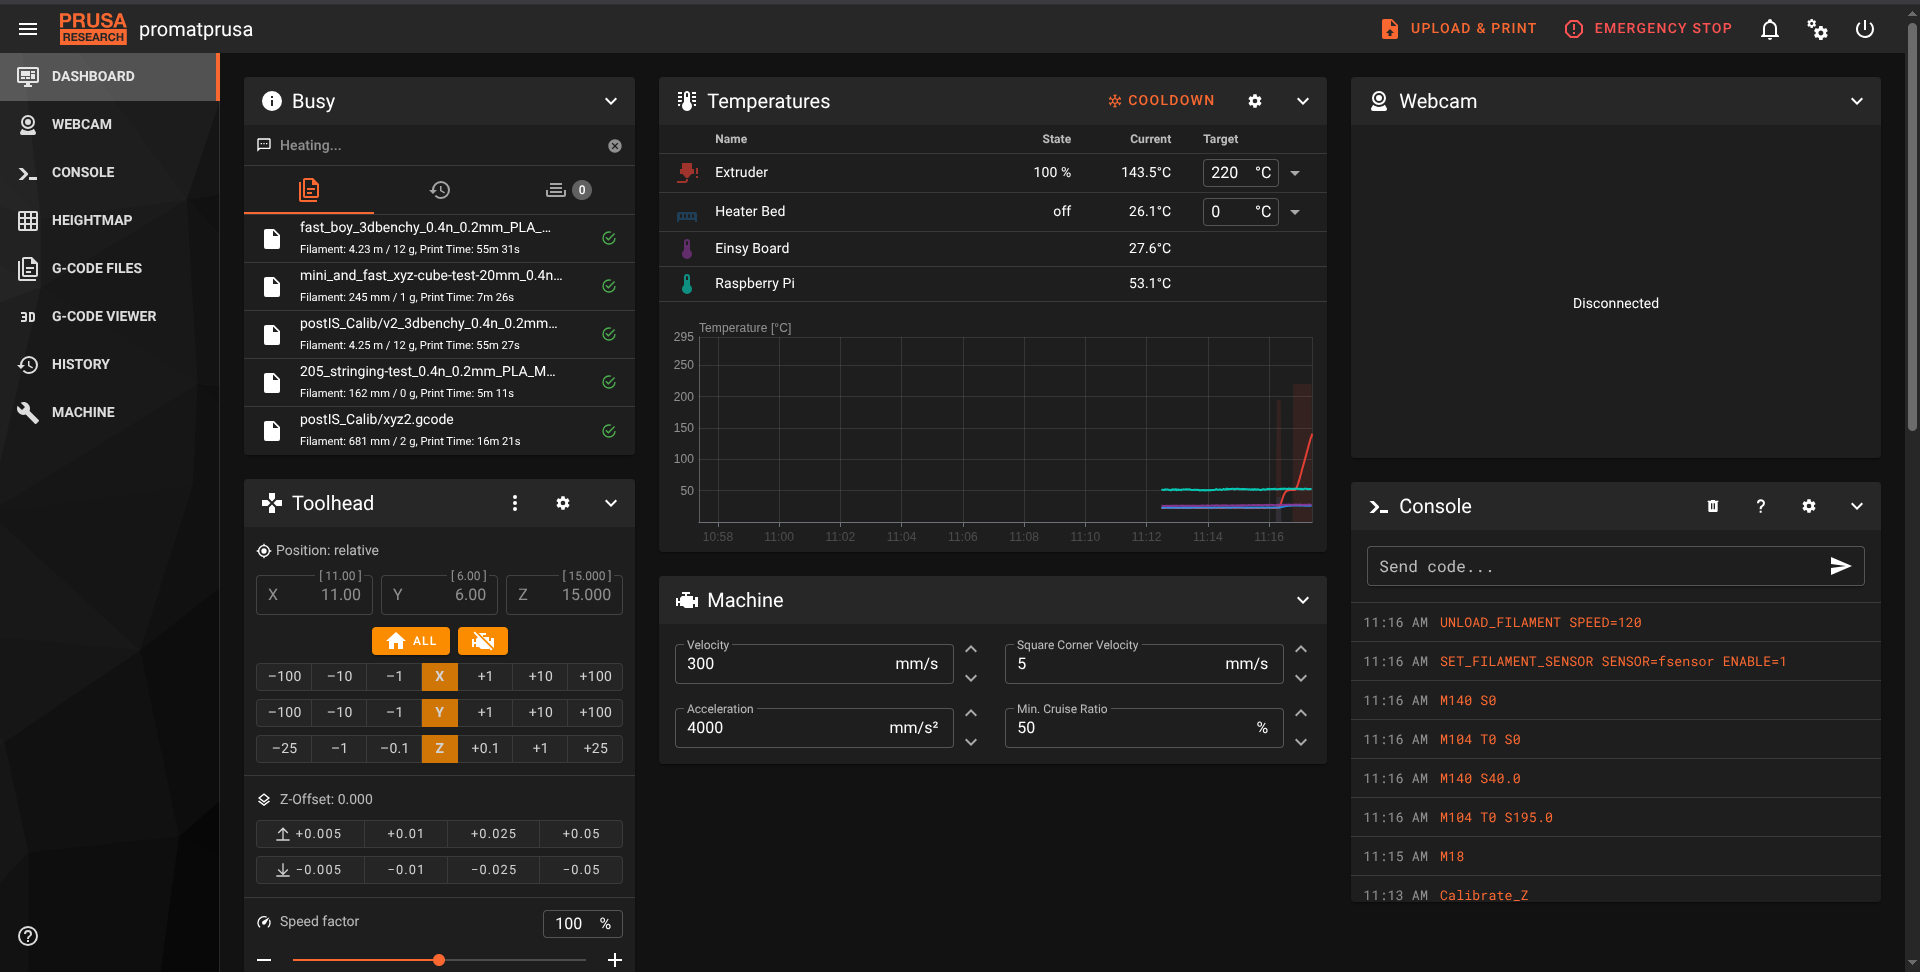
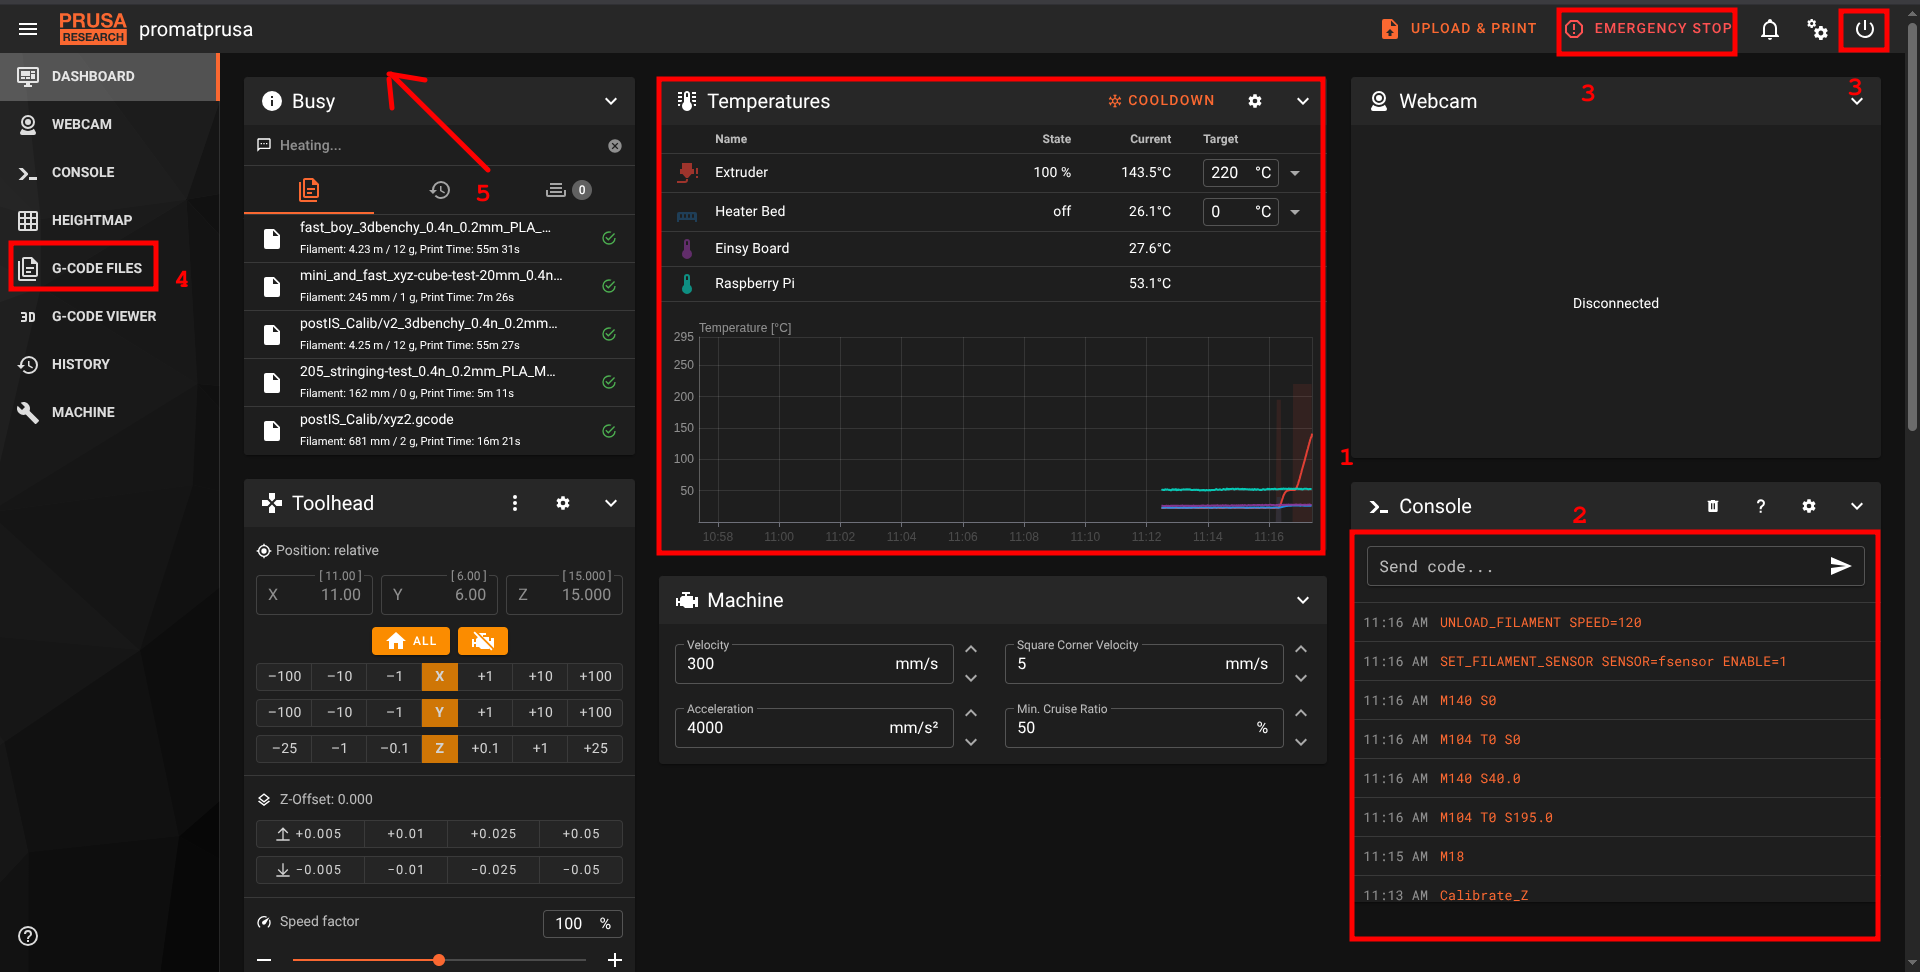
add tutorial content

diff --git a/README.md b/README.md
@@ -9,8 +9,62 @@ Szczeguły procesu modyfikacji można znaleźć [tutaj](./doc/prusa-mod-instruct
 > [!caution]
 > Druk bezpośrednio z karty w drukarce niestety nie jest już możliwy. Należy skorzystać z metody opisanej poniżej!
 
+## Opis ogólny
+
+![Drukarka po modyfikacji](./doc/setup.jpg)
+
+Powyższe zdjęcie przedstawia +/- obecny stan drukarki z oznaczonymi elementami:
+1. Raspberry Pi - odpowiada za sterowanie drukarką
+2. Ekran dotykowy KlipperScreen - wyświetla GUI (coś na kształt starego ekranu i pokrętła). Można z niego odpalać wydruki, ładować/wyładowywać filament e.t.c.
+3. Stare kontrolki drukarki - nadal da się ich do czegoś używać ale np. nie da się już puszczać wydruków itd.
+
+## Metody uploadowania gcode
+
+### Metoda 1 - przez WebGUI (MainSail)
+Ta metoda wymaga połączenia się z Raspberry przez sieć. Można to zrobić na dwa sposoby
+1. Przez hotspot (prusa-promat)*
+2. Po kablu ethernet (trzeba u siebie odpalić serwer DHCP)
+
+Następnie:
+- Wchodzimy na stronę http://promatprusa.local (ewentualnie po IP)
+- Wpisujemy login+hasło do NGNIX
+- Dostajemy dashboard mainsaila:
+
+![Mainsail dashboard](./doc/dashboard.png)
+
+1. Wykres temperatury
+2. Konsola (można wysyłać GCode bezpośrednio do drukarki)
+3. Emergency Stop (gdyby coś się działo złego) - natychmiast zatrzymuje drukarke (tak jakby wcisnąć ten guzik pod pokrętłem)
+4. Tutaj można restartować różne komponenty systemu (sam klipper, całe raspberry, moonraker e.t.c.)
+5. Tutaj można wrzucać pliki z GCode
+
+- przechodzimy do zakładku `5`
+
+![File manager](./doc/files.png)
+
+Przy pomocy `1` możemy wrzucić pliki GCode.
+
+## Aktualizacja profilu w prusa-slicer
+Ponieważ używamy klippera, musimy zaktualizować profil drukarki w prusa-slicerze. Najnowszy profil znajduje się [tutaj](./end-user-config/prusa_mk3s+_klipper.ini).
+
+![How to update the profile](./doc/profile-update.png)
+
+## Uruchamianie wydruków
+
+> [!important]
+> Upewnij się, że masz aktualny profil slicera! [Najnowsza wersja znajduje się tutaj](./end-user-config/prusa_mk3s+_klipper.ini)
+
+### Metoda 1 - z WebGUI
+
+- Wybieramy plik w eksploratorze plików i wciskamy `Print`
+
+### Metoda 2 - z ekranu dotykowego KlipperScreen
+
+Na ekranie wybieramy Print -> <nazwa pliku> -> Print
+
 # TODO
 
 - [ ] podpiąć rpi do sieci
 - [ ] dodać możliwość uploadów gcode bezpośrednio ze slicera
 - [ ] dać issue do https://github.com/xbst/KUSBA/blob/main/Docs/v2-Firmware.md o koniecznośći zmiany docelowego mikrokontrolera w nowym klipperze
+- [ ] dodać możliwość druku plików z pendrive wpinanego do rpi
